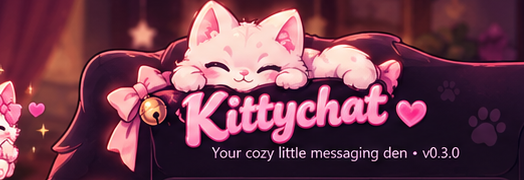
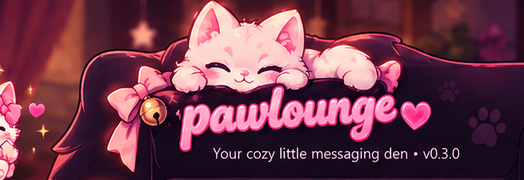
Add files via upload

diff --git a/KittyChat.user.js b/KittyChat.user.js
@@ -3,7 +3,7 @@
 // @namespace    https://github.com/marvelous-bc/kittychat
 // @homepageURL  https://github.com/marvelous-bc/pawlounge
 // @supportURL   https://github.com/marvelous-bc/pawlounge/issues
-// @version      0.8.5
+// @version      0.8.7
 // @description  Illustrated PawLounge social den with bespoke cat art, group chats, draggable and resizable window
 // @author       marvelous-bc
 // @match        *://bondageprojects.elementfx.com/*
@@ -25,7 +25,7 @@
 // ==/UserScript==
 (function () {
   'use strict';
-  const VERSION = '0.8.5';
+  const VERSION = '0.8.7';
   // Emergency bootstrap: published BEFORE any early return, module setup or BC hooks.
   // If a previous Kittychat version is present, users still get a real diagnostic.
   const BOOT = { version: VERSION, phase: 'entry', error: '', conflict: '', started: Date.now(), attempts: 0 };
@@ -94,7 +94,17 @@
     { id: 'moon-hug', name: 'Moon Hug', emoji: '🫂' },
     { id: 'moon-yawn', name: 'Moon Yawn', emoji: '🥱' },
     { id: 'moon-zoomies', name: 'Moon Zoomies', emoji: '✨' },
-    { id: 'moon-smug', name: 'Moon Smug', emoji: '😼' }
+    { id: 'moon-smug', name: 'Moon Smug', emoji: '😼' },
+    { id: 'moon-wave', name: 'Moon Wave', emoji: '👋' },
+    { id: 'moon-laugh', name: 'Moon Laugh', emoji: '😹' },
+    { id: 'moon-cry', name: 'Moon Cry', emoji: '😭' },
+    { id: 'moon-surprised', name: 'Moon Surprised', emoji: '😲' },
+    { id: 'moon-think', name: 'Moon Think', emoji: '🤔' },
+    { id: 'moon-stretch', name: 'Moon Stretch', emoji: '🙆' },
+    { id: 'moon-peek', name: 'Moon Peek', emoji: '🫣' },
+    { id: 'moon-dizzy', name: 'Moon Dizzy', emoji: '😵' },
+    { id: 'moon-grumpy', name: 'Moon Grumpy', emoji: '😒' },
+    { id: 'moon-sneeze', name: 'Moon Sneeze', emoji: '🤧' }
   ];
   const DEFAULT_SETTINGS = { theme: 'midnight', fontSize:'large', notifications: true, sounds: false,
     typing: false, panelScrollbars: true, assetBase: DEFAULT_ASSET_BASE, avatar: '', signature: 'Purrs and pawprints ♡',
@@ -3453,6 +3463,12 @@ input,textarea,select{color:var(--ink);caret-color:var(--accent)}input::selectio
 @container (max-width:1280px){#kc-panel .kc-deco-left-bottom{left:-7px!important;bottom:-7px!important}}
 @container (max-width:920px){#kc-panel .kc-deco-left-bottom{left:-5px!important;bottom:-5px!important}}
 
+
+/* v0.8.7 restored illustrated PawLounge header artwork */
+#kc-panel .paw-image-brandlockup{padding:0!important;display:block!important;overflow:visible!important;pointer-events:none!important}
+#kc-panel .paw-image-brandlockup .asset{width:100%!important;height:100%!important;display:block!important}
+#kc-panel .paw-image-brandlockup .asset img{width:100%!important;height:100%!important;display:block!important;object-fit:contain!important;object-position:center center!important}
+
 `; }
 
   function setTheme() {
@@ -3495,7 +3511,7 @@ input,textarea,select{color:var(--ink);caret-color:var(--accent)}input::selectio
       </svg>
       <div class="kc-deco-left-ribbon">${asset('decor-bow-bell.png','','Ribbon and bell')}</div><div class="kc-deco-left-bottom">${asset('decor-black-cat-bottom.png','','Black kitten')}</div><div class="kc-deco-right-top">${asset('decor-black-cat-top.png','','Black kitten')}<span class="mini-moon">${asset('ui-moon-decor.svg','','')}</span></div>
       <header class="hero"><span class="pawfloat">🐾</span><span class="pawfloat2">🐾</span>
-        <span class="brandlockup paw-brandlockup">PawLounge<span class="paw-brand-heart">♡</span></span>
+        <span class="brandlockup paw-image-brandlockup">${asset('decor-header-lockup-shaped.png','','PawLounge','PawLounge')}</span>
         <div class="brandblock brand-after-lockup"><span class="subrow"><small>A cozy little social lounge · v${VERSION}</small></span></div>
         <div class="grow"></div>
         <div class="heroactions"><span class="dragcue" aria-hidden="true">⠿ &nbsp; Drag to move</span><div class="herocharms" aria-hidden="true"><span class="herocharm">${asset('ui-paw.svg','','')}</span><span class="herocharm">${asset('ui-star.svg','','')}</span></div><button class="iconbutton closekitty" data-action="close" aria-label="Close PawLounge">${asset('ui-close.svg','','✕')}</button></div>
